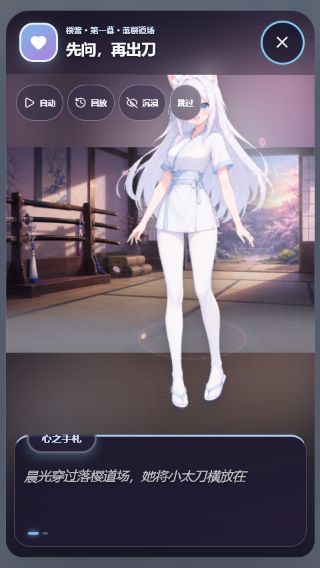
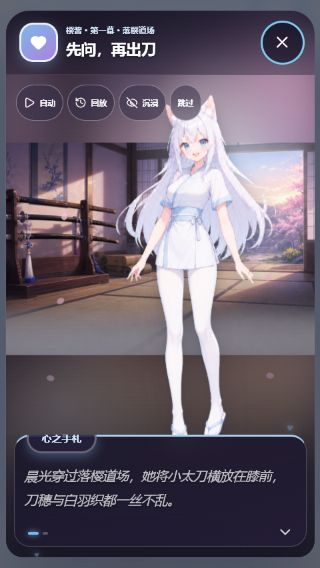
fix(ui): 避免短屏剧情立绘遮脸

diff --git a/src/components/affection/AffectionStoryModal.vue b/src/components/affection/AffectionStoryModal.vue
@@ -1304,6 +1304,14 @@ onUnmounted(() => {
   }
 }
 
+/* 320×568 这类短屏里，默认 8% 顶锚会让角色的脸与舞台工具栏重叠。保持立绘
+ * 原尺寸并整体下移：脸完整露出，腿部自然收进对白框后方，符合 AVG 构图。 */
+@media (max-width: 350px) and (max-height: 650px) {
+  .portrait-slot {
+    inset: 15% 3% 17% 24%;
+  }
+}
+
 .backlog-panel {
   position: absolute;
   inset: 0;
